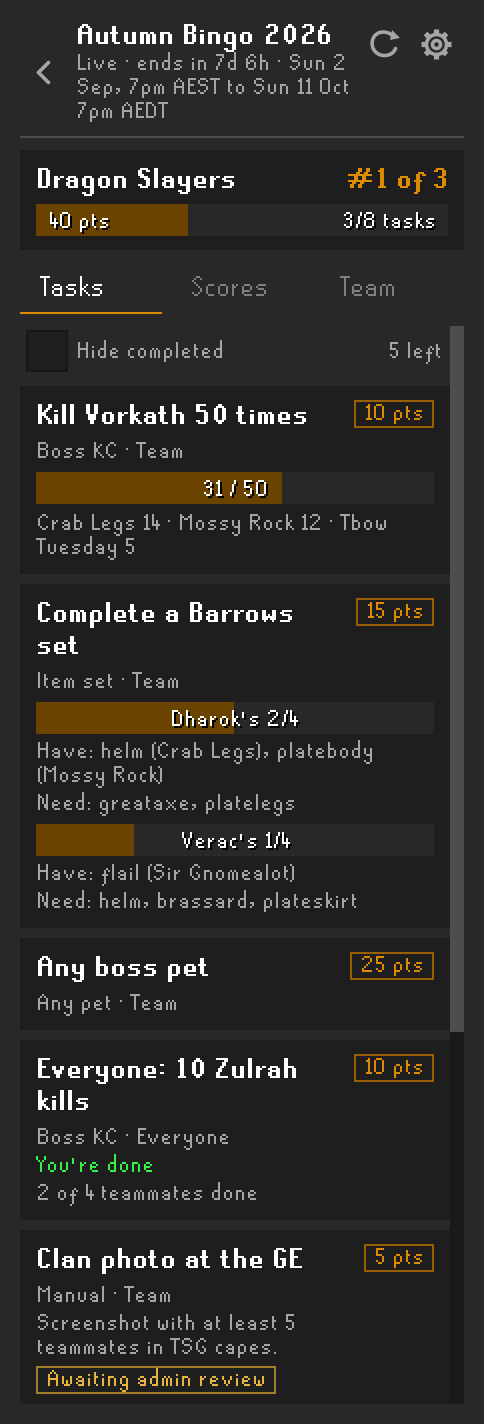
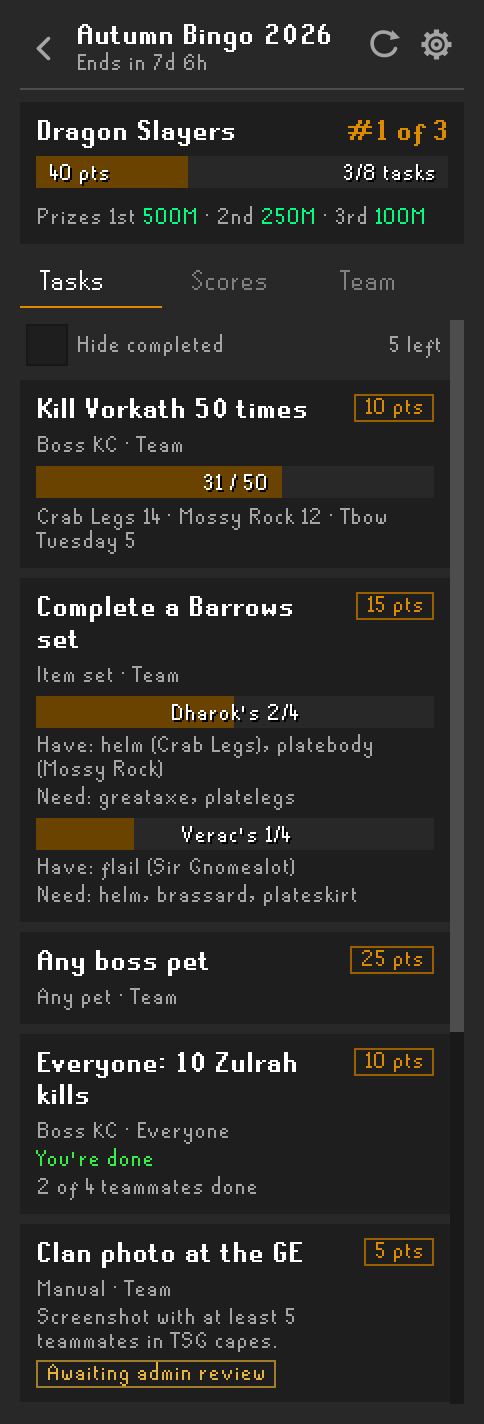
docs: refresh readme and screenshots

diff --git a/src/test/java/com/tsghub/ReadmeScreenshots.java b/src/test/java/com/tsghub/ReadmeScreenshots.java
@@ -148,7 +148,7 @@ public class ReadmeScreenshots
 		selectTab(organizer, "Tasks");
 		shoot(organizer, 860, 580, "admin-tasks");
 		selectTab(organizer, "Claims");
-		shoot(organizer, 860, 240, "admin-claims");
+		shoot(organizer, 860, 270, "admin-claims");
 
 		hero(480, eventList, board, parties);
 	}

diff --git a/README.md b/README.md
@@ -11,6 +11,7 @@ Clan events for **Type Shiii Gaming** (TSG), right in your RuneLite sidebar. Joi
 - **Bingo boards** with team tasks that update automatically from kills, drops, raids and collection log unlocks.
 - **Skill of the Week** and **Boss of the Week** leaderboards you join with one click.
 - **Custom** events (drop parties, clan trips, anything else) announced with the time, world and location.
+- **Prizes**: events can list GP prizes for 1st, 2nd and 3rd place.
 - **Clan parties** for raids, bossing and skilling. Join with one click, no passphrase to type, and see your party's health, prayer, gear, inventory and skills live.
 - **Members** list showing which clanmates are online, their world, area and what they're doing.
 - **Drops** history of the clan's big drops, raid loot, pets and collection log items, so you can catch up on what you missed.
@@ -19,7 +20,7 @@ Clan events for **Type Shiii Gaming** (TSG), right in your RuneLite sidebar. Joi
 
 ## Bingo
 
-Your team's board opens straight from the sidebar. Every task shows its points, a progress bar, and who contributed what. Open tasks sort first; tick **Hide completed** to focus on what's left.
+Your team's board opens straight from the sidebar. The header shows your team's rank, points and tasks done, plus the prize for each place. Every task shows its points, a progress bar, and who contributed what. Open tasks sort first; tick **Hide completed** to focus on what's left.
 
 **Scores** ranks every team, and **Team** lists your teammates. The board updates live while it's open.
 
@@ -50,6 +51,8 @@ Tasks can be **Team** (everyone's progress pools together), **Everyone** (each m
 
 **Custom events**, like drop parties, show when and where they happen, along with the host and any notes.
 
+The **Events** list splits live and upcoming events, with each one's prize pool. Open an event to see the prize for each place.
+
 Every event shows its start and end in your own time zone, with the zone name (for example "Mon 5 Oct, 7pm AEDT") and how long until it starts or ends. Competitions count gains made between those exact times, wherever you are.
 
 <p>
@@ -70,7 +73,7 @@ A party closes when its last member leaves. Members drop out after 3 minutes wit
 
 ## Members
 
-The **Members** section lists clanmates who are in clan chat with sharing on. Each row shows their world, area and what they're doing, such as `Skilling - Mining`, `Bossing - Vorkath` or `Raiding - Chambers of Xeric`.
+The **Members** section lists clanmates who are in clan chat with sharing on. Each row shows their world, area and what they're doing, such as `Mining · Motherlode Mine`, `Vorkath` or `Chambers of Xeric`. Clanmates on your world have their world shown in green.
 
 Activity is detected automatically from where you are and the XP you gain. Only the area name is sent, never your exact tile.
 
@@ -82,7 +85,7 @@ Anyone in clan chat with sharing on appears in the list. Your area and activity 
 
 ## Drops
 
-The **Drops** section keeps a history of the clan's big drops, so you can see what clanmates got while you were offline. Each row shows the item, who got it, its value and how long ago.
+The **Drops** section keeps a history of the clan's big drops, so you can see what clanmates got while you were offline. Drops are grouped by day, and each row shows the item, who got it, its value and how long ago. Tags mark raid loot (`CoX`, `ToB`, `ToA`), pets and new collection log items.
 
 It's built from the clan chat broadcasts your clan already has turned on: drops over the clan's value threshold, raid loot, pets and new collection log items. Anyone online with sharing on records them, so drops from clanmates who don't use TSG Hub show up too. If several people see the same broadcast, it's only recorded once.
 
@@ -128,7 +131,7 @@ Once the key checks out, an admin button appears in the sidebar header. It opens
 
 Your in-game clan rank doesn't grant admin access. Owners and Deputy Owners keep admin tools through their Discord admin role, and their plugin keeps Discord rank roles in sync while they're logged in with sharing on.
 
-1. **New event**: pick bingo, Skill of the Week, Boss of the Week or a custom event, then set its name and its start and end date and time. Times are entered in your computer's time zone, shown next to the fields, and players see them converted to theirs. Custom events can leave the end time empty. You can hide scores from players until the end.
+1. **New event**: pick bingo, Skill of the Week, Boss of the Week or a custom event, then set its name and its start and end date and time. Times are entered in your computer's time zone, shown next to the fields, and players see them converted to theirs. Custom events can leave the end time empty. You can add optional prizes for 1st, 2nd and 3rd place, in millions of GP, and hide scores from players until the end.
 2. **Teams**: add teams. Each gets a permanent invite code; use **Copy code** to share it.
 3. **Tasks**: add tasks shared by every team. Item tasks have type-ahead search with icons and ready-made sets, and raid tasks let you choose each raid and mode.
 4. **Claims**: approve or reject manual submissions. The tab shows how many are waiting.
